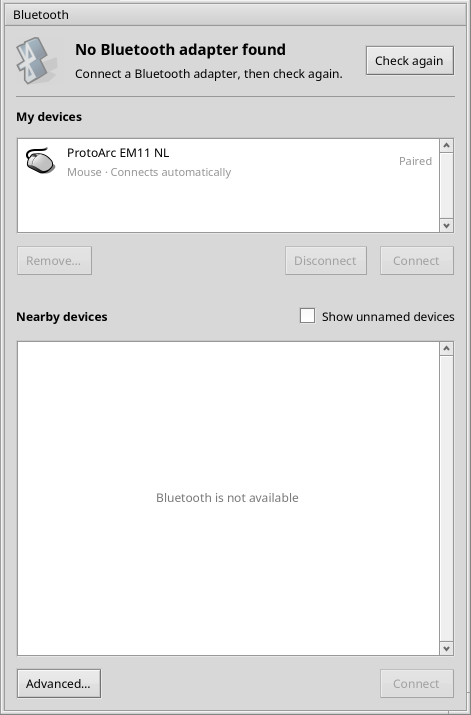
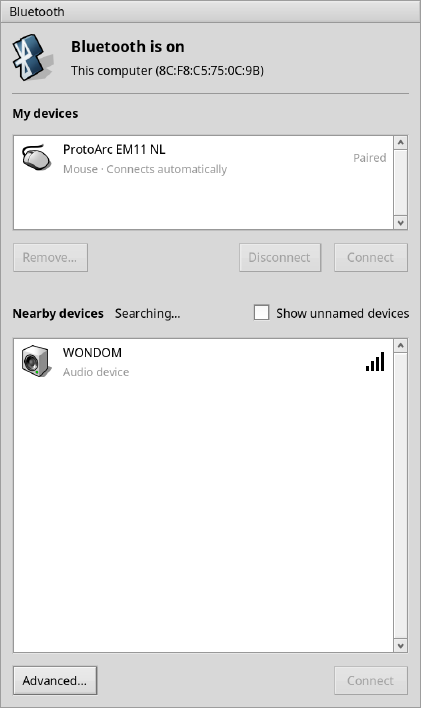
Apps: Bluetooth panel screenshot with a working adapter
Fresh native window capture from the Framework 13 (Ryzen AI 5 340):
Bluetooth on, the paired ProtoArc mouse under My devices and a nearby
audio device. It replaces the X399 capture that showed no adapter.

diff --git a/README.md b/README.md
@@ -124,10 +124,10 @@ capture from Haiku's `node` and a small web server script. AirImager shows the
 29 October Cubie A7S image from the Downloads folder ready to write to the Verbatim
 USB stick; nothing was written. Their icons are each installed app's `BEOS:ICON`,
 rendered by `BIconUtils` on the X399 the same day. Third-party content in a capture
-is credited in its caption. The System tab's Wi-Fi, Bluetooth, Quick Look, network
-shares and Terminal captures are from the X399 on 24 October 2026. The Wi-Fi capture's
-network names are pixelated, the only edit to any capture. The Bluetooth panel shows
-no adapter because the MT7922's Bluetooth was not attached to USB at the time.
+is credited in its caption. The System tab's Wi-Fi, Quick Look, network shares and
+Terminal captures are from the X399 on 24 October 2026. The Wi-Fi capture's
+network names are pixelated, the only edit to any capture. The Bluetooth panel was
+captured on the Framework 13 (Ryzen AI 5 340) on 2 November 2026, with its adapter on.
 Quick Look previews a 640 × 360 copy of the desktop artwork in a folder made for the
 capture. The Wi-Fi, Bluetooth and Tracker icons are rendered the same way as the app
 icons. The favicon uses the
